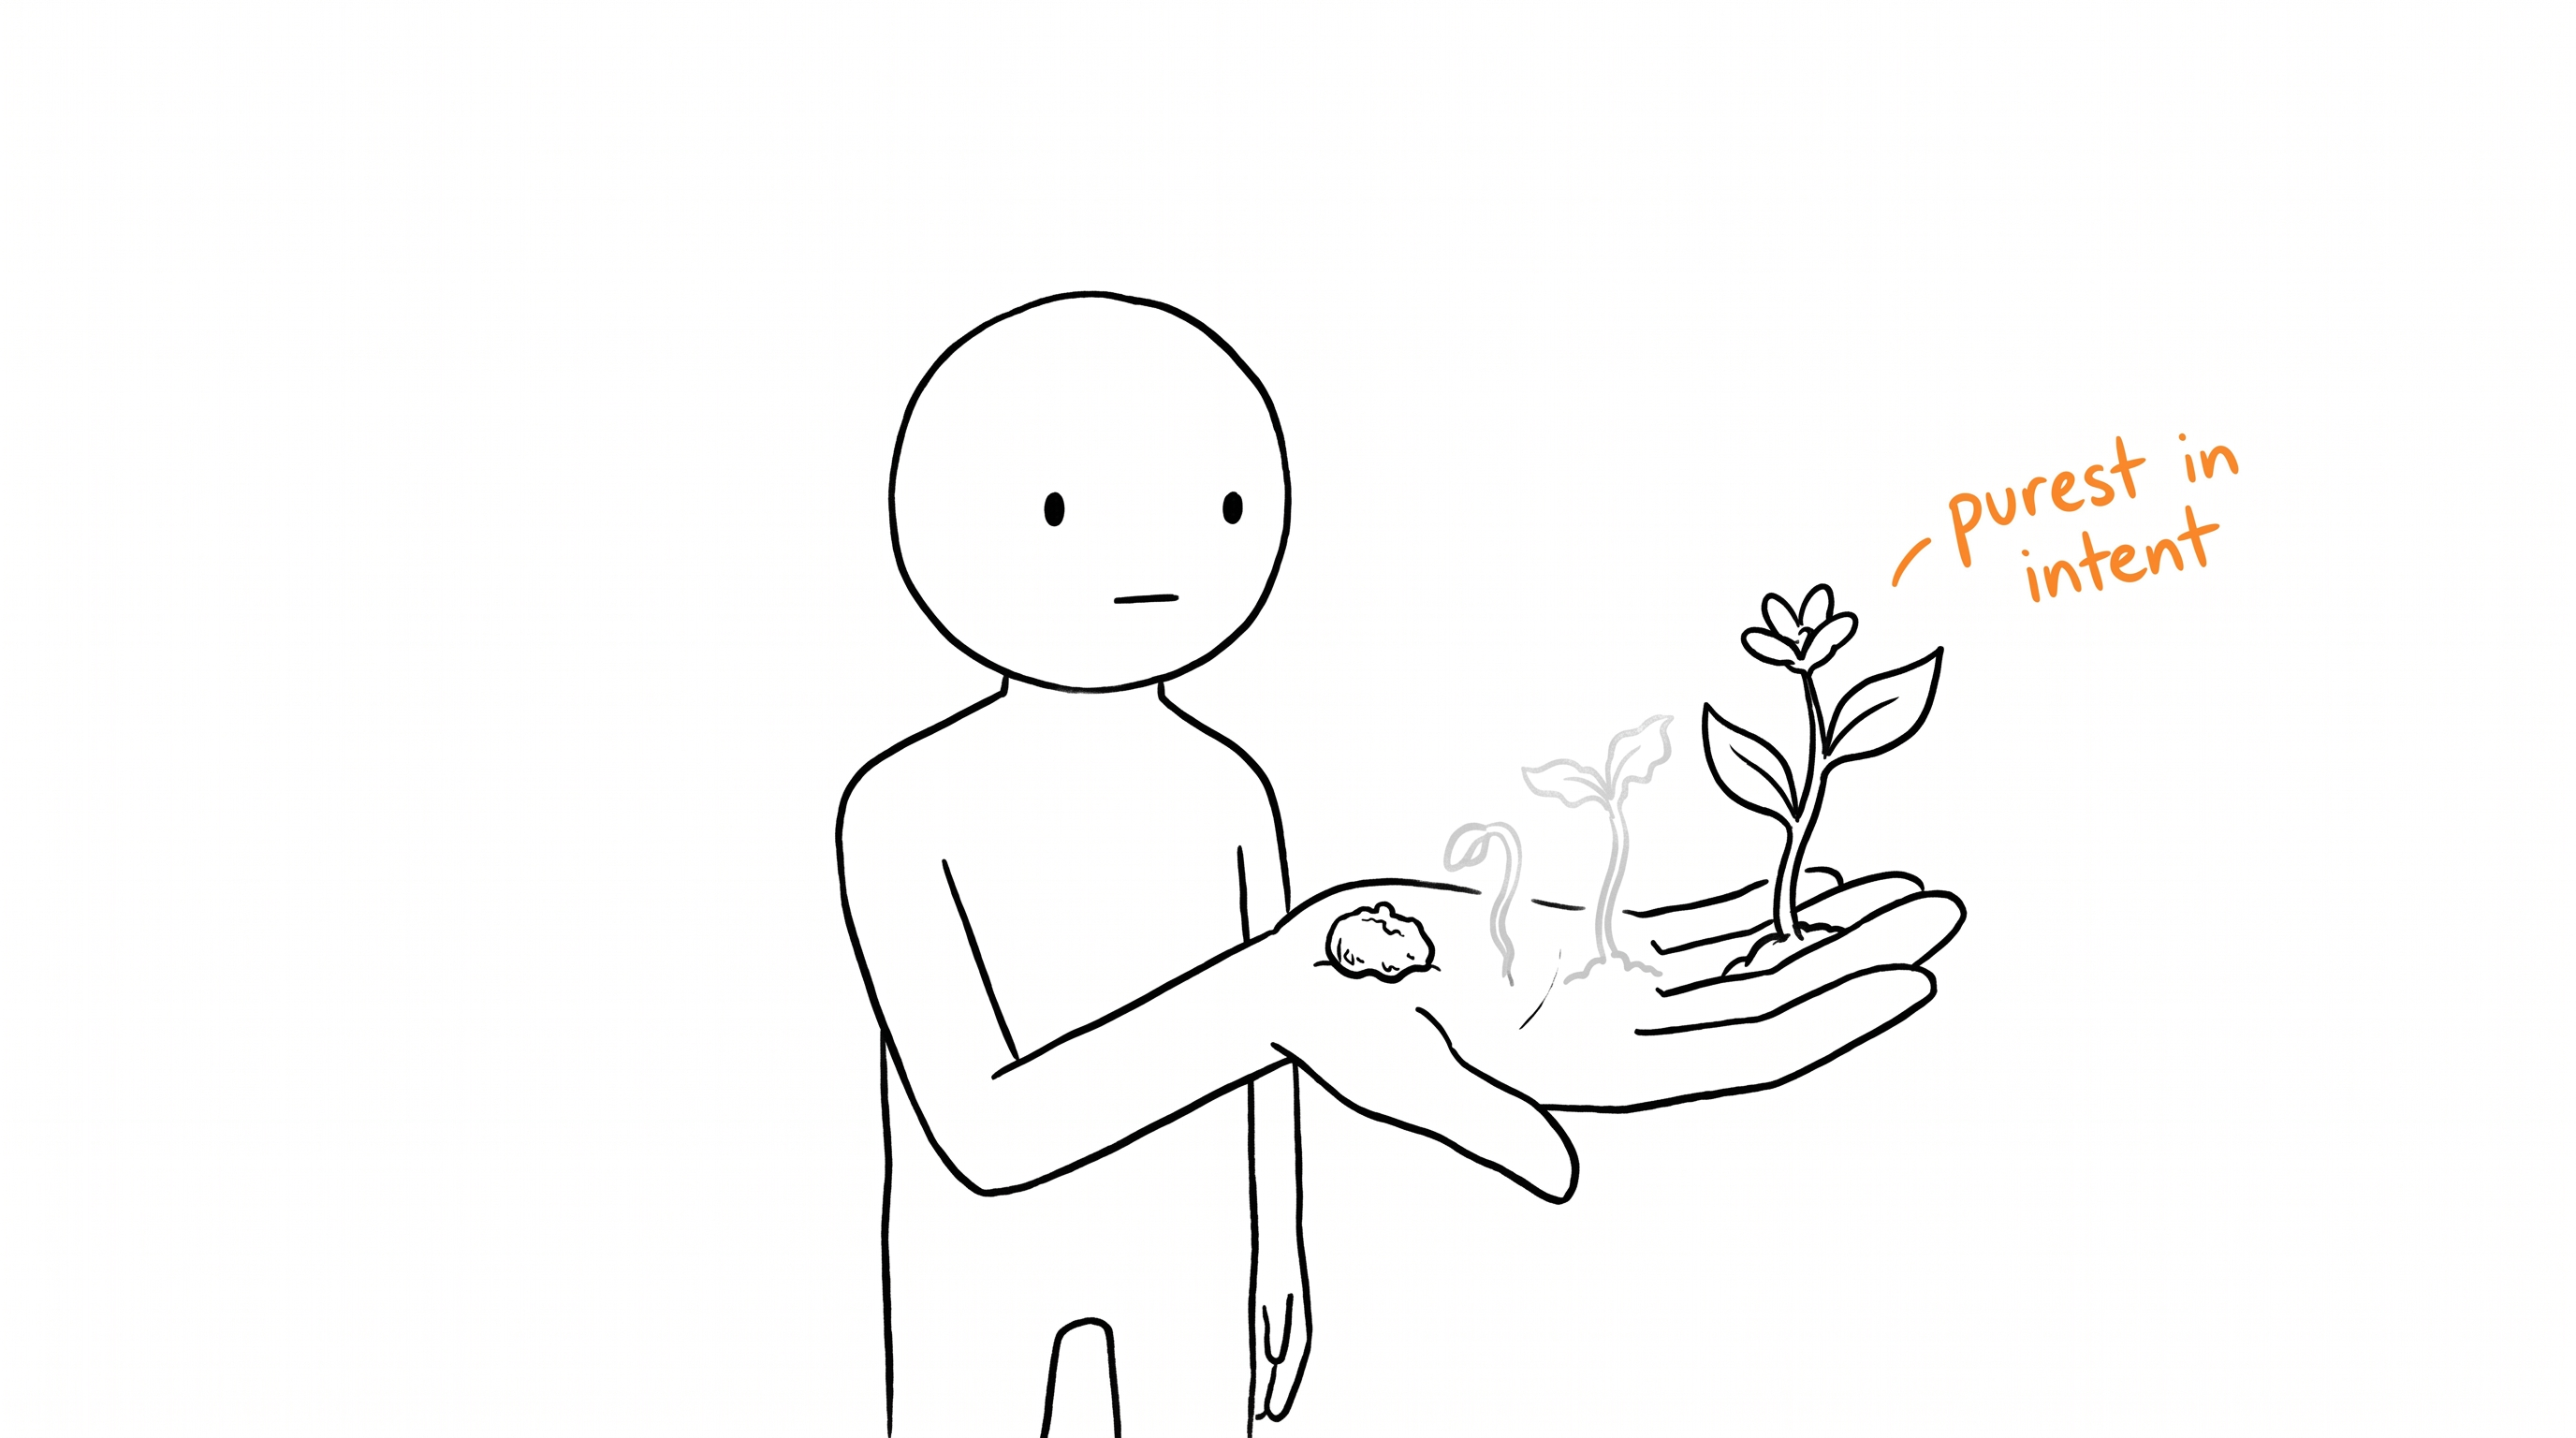
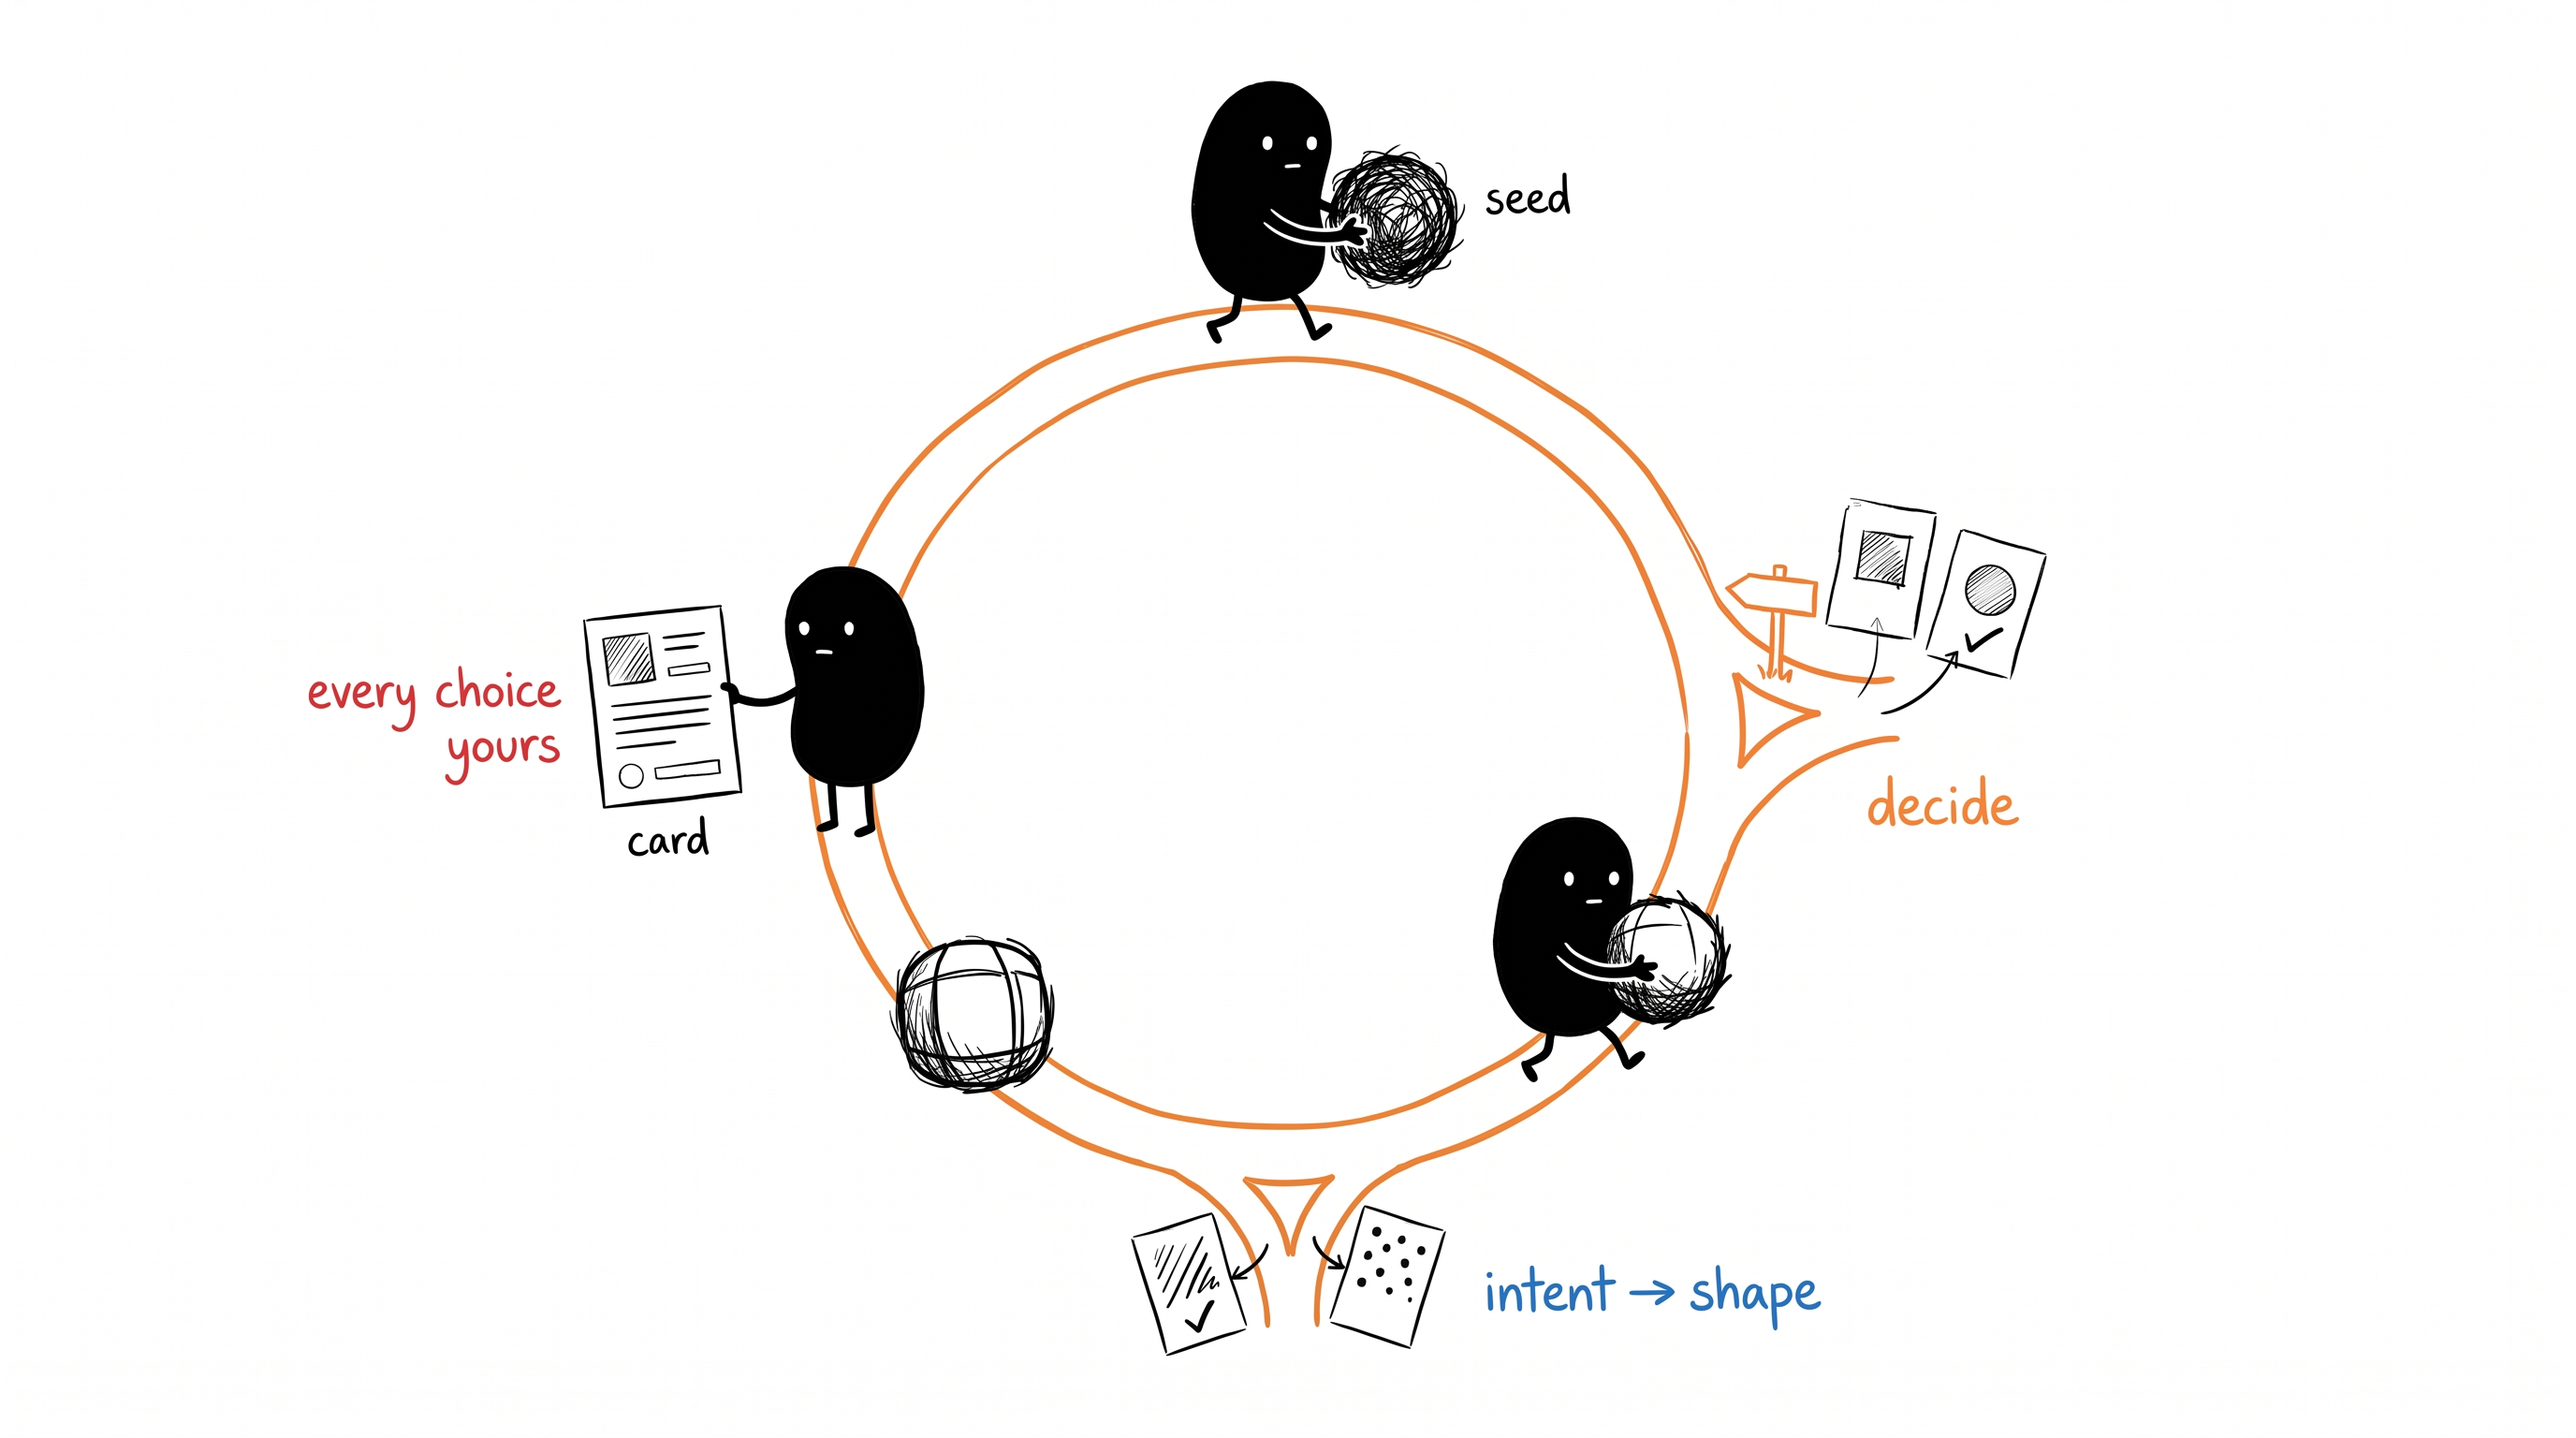
docs(readme): regenerate hope illustrations in Xiaohei style; add freeze + over
- Redraw loop/delegate/over and add freeze in the Ian Xiaohei house style
  (solid-black bean, white dot eyes, red/orange/blue handwritten labels).
- loop: decision-loop metaphor (forks turn a rough seed into a clean card).
- delegate: reframed as context optimization (limited context jar; doing &
  verifying leave, deciding stays).
- over: tiny short-lived agents bear the decision outcome; you rebuild it
  in-flow, right away (no session-end framing).
- freeze: snap one factual moment-state out of the churning external world.
- README prose: retire deleted 'own'; document freeze + over.

diff --git a/README.md b/README.md
@@ -40,11 +40,11 @@ This is also what stops compaction from silently rewriting your context. The ver
 
 ## A routine
 
-**over** is the session-end handover. You run it as a session winds down, so the decisions you made leave with you and not with the agent.
+**over** hands a decision back the moment it lands — in-flow, as soon as the work is done, never banked to the end. The agents that did the work are short-lived; what they carried vanishes with them, so the decision has to come back to you right away.
 
-Agents grow the codebase faster than they grow your understanding of it. That gap is the part you are accountable for. over closes it. It reads the session, finds what was load-bearing, and hands each decision back as one forward question — you rebuild the reasoning, it confirms once. A short conversation, no score.
+Agents grow the codebase faster than they grow your understanding of it. That gap is the part you are accountable for. over closes it. It finds what was load-bearing and hands each decision back as one forward question — you reason it into your own mental model, it confirms once. A short conversation, no score.
 
-What the agent never carries between sessions is what over hands back. The problem is named in [One Flew Over the Context Window](https://saadshahd.github.io/blog/one-flew-over-the-context-window/).
+What the agent never carries is what over hands back. The problem is named in [One Flew Over the Context Window](https://saadshahd.github.io/blog/one-flew-over-the-context-window/).
 
 ![over](assets/over.png)
 
@@ -55,7 +55,7 @@ What the agent never carries between sessions is what over hands back. The probl
 | AI fills in your decisions               | `/hope:intent` & `/hope:shape` | interactive questions, each choice previewed |
 | compaction mutates & drifts your context | `/hope:delegate`               | doing stays out, deciding stays in           |
 | stale or remembered external state       | `/hope:freeze`                 | snapshot facts, never infer                  |
-| code grows faster than understanding     | `/hope:over`                   | session-end handover keeps you owning it     |
+| code grows faster than understanding     | `/hope:over`                   | hand each decision back in-flow, you reason it into your own model |
 
 ## Reading
 